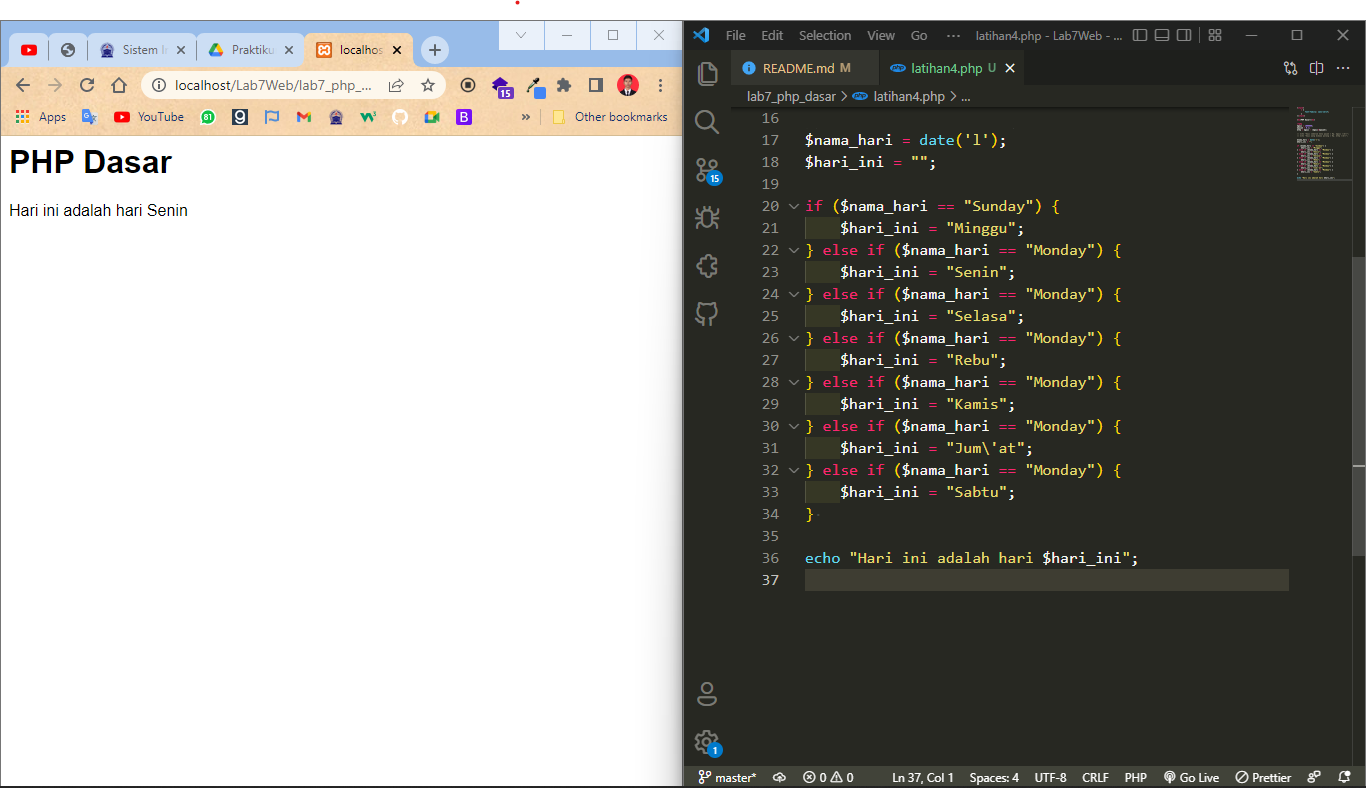
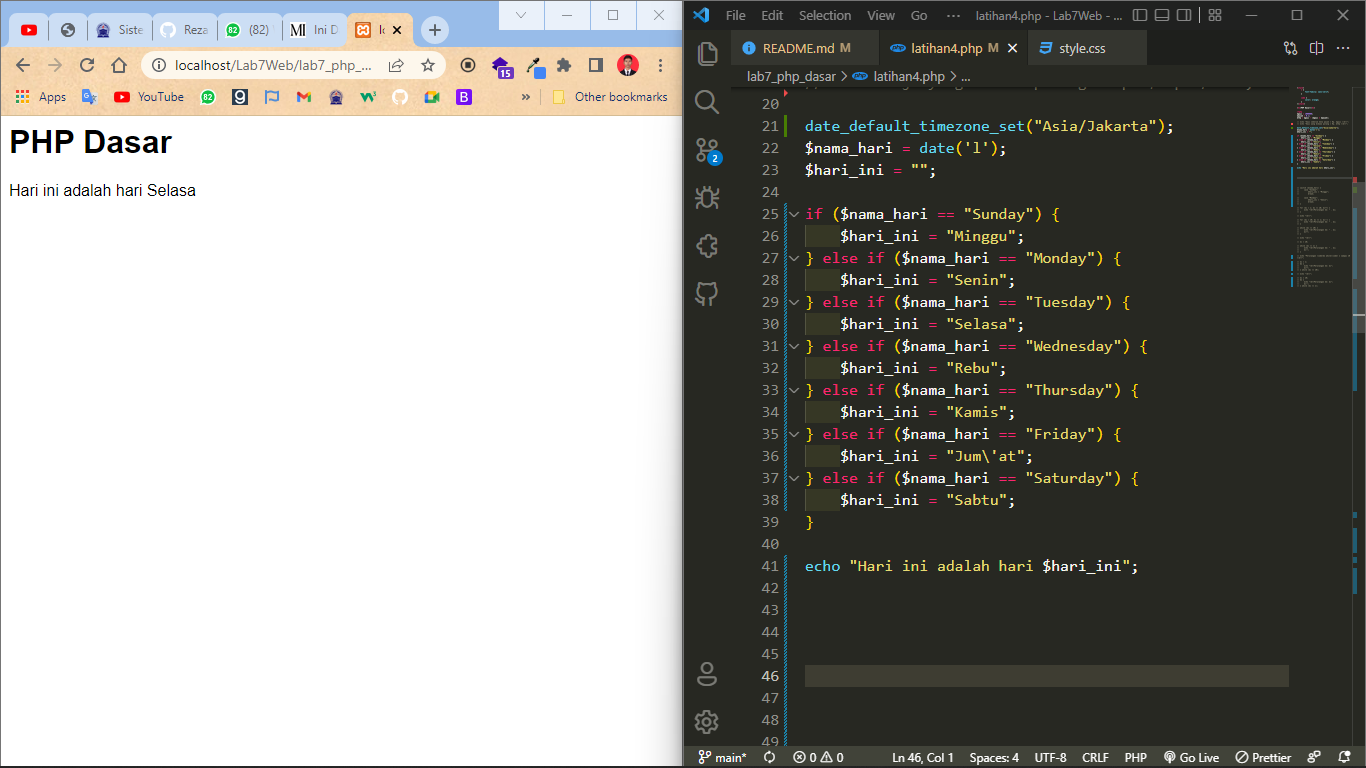
fix bug

diff --git a/lab7_php_dasar/latihan4.php b/lab7_php_dasar/latihan4.php
@@ -17,37 +17,47 @@ $thp = $gaji - ($gaji * $pajak);
 
 // echo "Gaji sebelum kena pajak = Rp. $gaji </br>";
 // echo "Gaji yang dibawa pulang = Rp. $thp </br>";
-// date_default_timezone_set("Asia/Jakarta");
-// if ($nama_hari == "Sunday") {
-//     $hari_ini = "Minggu";
-// } else if ($nama_hari == "Monday") {
-//     $hari_ini = "Senin";
-// } else if ($nama_hari == "Monday") {
-//     $hari_ini = "Selasa";
-// } else if ($nama_hari == "Monday") {
-//     $hari_ini = "Rebu";
-// } else if ($nama_hari == "Monday") {
-//     $hari_ini = "Kamis";
-// } else if ($nama_hari == "Monday") {
-//     $hari_ini = "Jum\'at";
-// } else if ($nama_hari == "Monday") {
-//     $hari_ini = "Sabtu";
-// }
 
+date_default_timezone_set("Asia/Jakarta");
 $nama_hari = date('l');
 $hari_ini = "";
 
-switch ($nama_hari) {
-    case "Sunday":
-        $hari_ini = "Minggu";
-        break;
-
-    case "Monday":
-        $hari_ini = "Senin";
-        break;
+if ($nama_hari == "Sunday") {
+    $hari_ini = "Minggu";
+} else if ($nama_hari == "Monday") {
+    $hari_ini = "Senin";
+} else if ($nama_hari == "Tuesday") {
+    $hari_ini = "Selasa";
+} else if ($nama_hari == "Wednesday") {
+    $hari_ini = "Rebu";
+} else if ($nama_hari == "Thursday") {
+    $hari_ini = "Kamis";
+} else if ($nama_hari == "Friday") {
+    $hari_ini = "Jum\'at";
+} else if ($nama_hari == "Saturday") {
+    $hari_ini = "Sabtu";
 }
 
-// echo "Hari ini adalah hari $hari_ini";
+echo "Hari ini adalah hari $hari_ini";
+
+
+
+
+
+
+
+
+
+// switch ($nama_hari) {
+//     case "Sunday":
+//         $hari_ini = "Minggu";
+//         break;
+
+//     case "Monday":
+//         $hari_ini = "Senin";
+//         break;
+// }
+
 // for ($i = 1; $i <= 10; $i++) {
 //     echo "<br>Perulangan ke: " . $i;
 // }
@@ -72,18 +82,18 @@ switch ($nama_hari) {
 //     $i--;
 // }
 
-echo "Perulangan <code>do while</code> 1 sampai 10 </br>";
+// echo "Perulangan <code>do while</code> 1 sampai 10 </br>";
 
-$i = 1;
-do {
-    echo "<br>Perulangan ke: $i";
-    $i++;
-} while ($i <= 10);
+// $i = 1;
+// do {
+//     echo "<br>Perulangan ke: $i";
+//     $i++;
+// } while ($i <= 10);
 
-echo "<br>";
+// echo "<br>";
 
-$i = 10;
-do {
-    echo "<br>Perulangan ke: $i";
-    $i--;
-} while ($i >= 1);
+// $i = 10;
+// do {
+//     echo "<br>Perulangan ke: $i";
+//     $i--;
+// } while ($i >= 1);

diff --git a/README.md b/README.md
@@ -174,6 +174,7 @@ echo "Gaji yang dibawa pulang = Rp. $thp </br>";
 1. Tambahkan kode berikut.
 
 ```php
+date_default_timezone_set("Asia/Jakarta");
 $nama_hari = date('l');
 $hari_ini = "";
 
@@ -181,17 +182,17 @@ if ($nama_hari == "Sunday") {
     $hari_ini = "Minggu";
 } else if ($nama_hari == "Monday") {
     $hari_ini = "Senin";
-} else if ($nama_hari == "Monday") {
+} else if ($nama_hari == "Tuesday") {
     $hari_ini = "Selasa";
-} else if ($nama_hari == "Monday") {
+} else if ($nama_hari == "Wednesday") {
     $hari_ini = "Rebu";
-} else if ($nama_hari == "Monday") {
+} else if ($nama_hari == "Thursday") {
     $hari_ini = "Kamis";
-} else if ($nama_hari == "Monday") {
+} else if ($nama_hari == "Friday") {
     $hari_ini = "Jum\'at";
-} else if ($nama_hari == "Monday") {
+} else if ($nama_hari == "Saturday") {
     $hari_ini = "Sabtu";
-} 
+}
 
 echo "Hari ini adalah hari $hari_ini";
 
